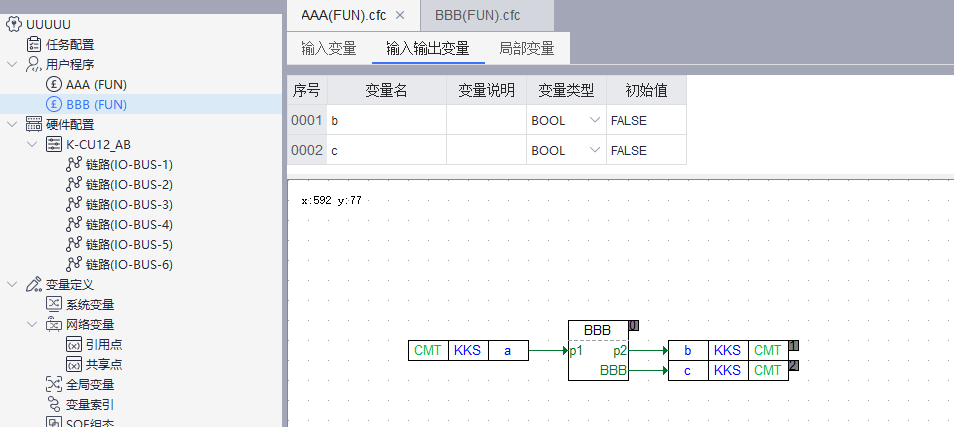
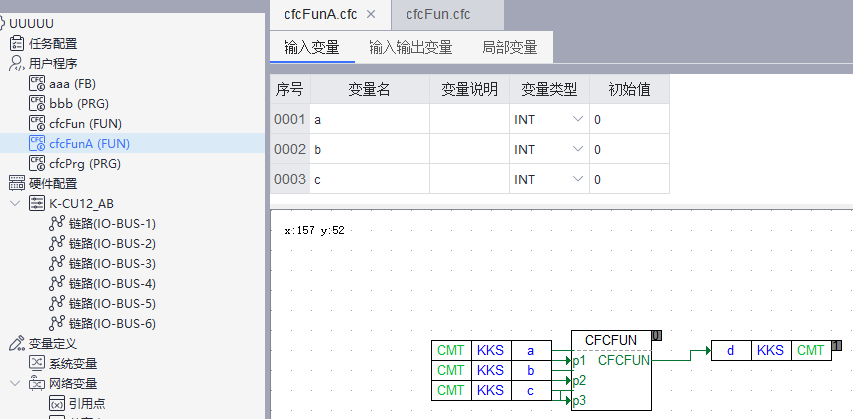
FUN中调用FUN

Changed region(s): [[0.0, 0.0, 1.0, 1.0], [0.4267, 0.7446, 1.0, 0.9928], [0.4877, 0.3103, 0.5182, 0.3413]]

diff --git a/6. M7预研/转C/WB转C文件/fun/例：FUN中调用FUN/CFCFUNA.c b/6. M7预研/转C/WB转C文件/fun/例：FUN中调用FUN/CFCFUNA.c
@@ -1,0 +1,18 @@
+#include "CFCFUNA.h"
+#include "HOLLYSYS-M7-AT-TASK-DEFINE.h"
+#include "CFCFUN.h"
+
+bool CFCFUNA(void* _pHead) {
+bool CFCFUNA = false;
+struct CFCFUNA* pHead = (struct CFCFUNA*)_pHead;
+bool __AT__CFCFUNA_EN_1 = true;
+bool __AT__CFCFUNA_1 = false;
+if((bool)__AT__CFCFUNA_EN_1) { 
+struct CFCFUN CFCFUN1;
+CFCFUN1.P1 = pHead->A;
+CFCFUN1.P2 = pHead->B;
+CFCFUN1.P3 = pHead->C;
+__AT__CFCFUNA_1 = CFCFUN(&CFCFUN1); }
+if((bool)__AT__CFCFUNA_EN_1) { (*(((int16_t*)(pHead->D)))) = __AT__CFCFUNA_1;; }
+return CFCFUNA;
+}

diff --git a/6. M7预研/转C/WB转C文件/fun/例：FUN中调用FUN/CFCFUN.c b/6. M7预研/转C/WB转C文件/fun/例：FUN中调用FUN/CFCFUN.c
@@ -1,0 +1,13 @@
+#include "CFCFUN.h"
+#include "HOLLYSYS-M7-AT-TASK-DEFINE.h"
+
+bool CFCFUN(void* _pHead) {
+bool CFCFUN = false;
+struct CFCFUN* pHead = (struct CFCFUN*)_pHead;
+bool __AT__CFCFUN_EN_3 = true;
+int16_t __AT__CFCFUN_3 = 0;
+if((bool)__AT__CFCFUN_EN_3) { 
+__AT__CFCFUN_3 = (*(((int16_t*)(pHead->P1))))+(*(((int16_t*)(pHead->P2)))); }
+if((bool)__AT__CFCFUN_EN_3) { (*(((int16_t*)(pHead->P3)))) = __AT__CFCFUN_3;; }
+return CFCFUN;
+}

diff --git a/6. M7预研/转C/WB转C文件/fun/例：FUN中调用FUN/CFCFUNA.h b/6. M7预研/转C/WB转C文件/fun/例：FUN中调用FUN/CFCFUNA.h
@@ -1,5 +1,5 @@
-#ifndef __AAA_H_
-#define __AAA_H_
+#ifndef __CFCFUNA_H_
+#define __CFCFUNA_H_
 #include <stdlib.h>
 #include <stdbool.h>
 #include <stdint.h>
@@ -7,11 +7,14 @@
 
 // Fun
 #pragma pack(1)
-struct AAA
+struct CFCFUNA
 {
 // IN
 int16_t* A;
+int16_t* B;
+int16_t* C;
 // INOUT
+int16_t* D;
 };
 #pragma pack()
 #endif

diff --git a/6. M7预研/转C/WB转C文件/fun/例：FUN中调用FUN/CFCFUN.h b/6. M7预研/转C/WB转C文件/fun/例：FUN中调用FUN/CFCFUN.h
@@ -1,5 +1,5 @@
-#ifndef __BBB_H_
-#define __BBB_H_
+#ifndef __CFCFUN_H_
+#define __CFCFUN_H_
 #include <stdlib.h>
 #include <stdbool.h>
 #include <stdint.h>
@@ -7,12 +7,13 @@
 
 // Fun
 #pragma pack(1)
-struct BBB
+struct CFCFUN
 {
 // IN
 int16_t* P1;
-// INOUT
 int16_t* P2;
+// INOUT
+int16_t* P3;
 };
 #pragma pack()
 #endif
